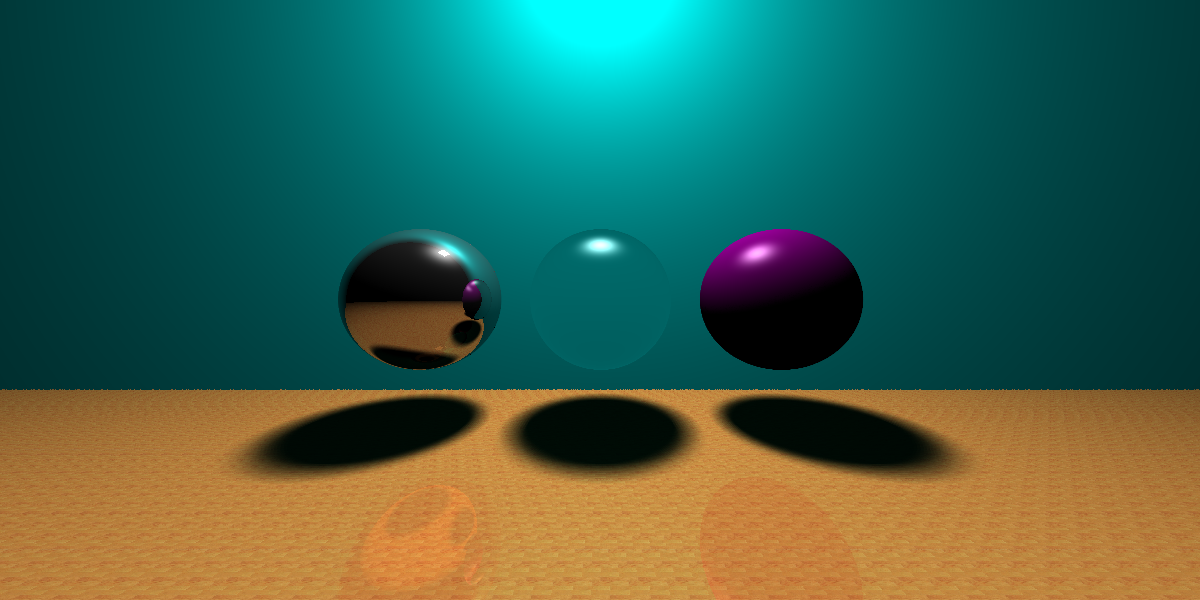
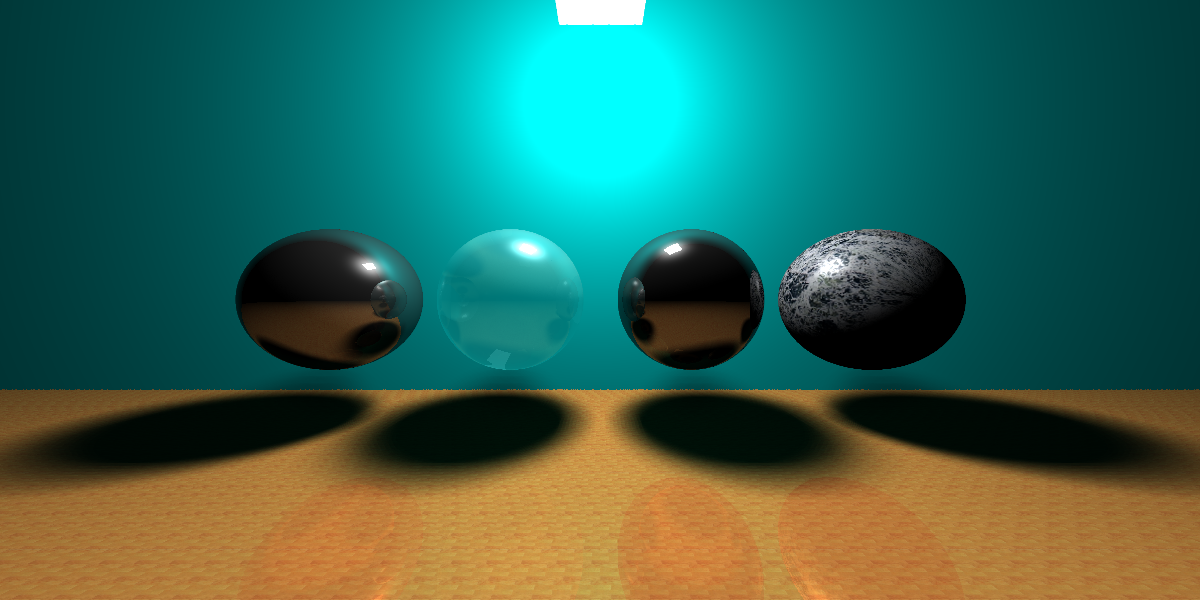
texture optimilized

diff --git a/proj1/proj1/objects.cpp b/proj1/proj1/objects.cpp
@@ -21,27 +21,42 @@ void PicTexture::loadPic() {
 	cv::waitKey(0);
 }
 
-Color PicTexture::getColor(float x,float y, bool sphere) {
-	if (sphere) {
+
+
+Color PicTexture::getColor(float x, float y, bool isSphere) {
+	if (isSphere) {
 		x *= pic.rows;
 		y *= pic.cols;
 	}
+	int u1 = ((int)x) % pic.rows;
+	int v1 = ((int)y) % pic.cols;
+	while (u1 < 0) u1 += pic.rows;
+	while (v1 < 0) v1 += pic.cols;
+	int u2 = (u1 + 1) %  pic.rows;
+	int v2 = (v1 + 1) % pic.cols;
 
-	int xx = int(x)%pic.rows;
-	int yy = int(y)%pic.cols;
-	while (xx < 0) xx += pic.rows;
-	while (yy < 0) yy += pic.cols;
-	float b = pic.at<cv::Vec3b>(xx, yy)[0]/(float)255;
-	float g = pic.at<cv::Vec3b>(xx, yy)[1]/ (float)255;
-	float r = pic.at<cv::Vec3b>(xx, yy)[2]/ (float)255;
-	return Color(r,g,b);
+	float fracu = x - floorf(x);
+	float fracv = y - floorf(y);
+
+	float w1 = (1 - fracu) * (1 - fracv);
+	float w2 = fracu * (1 - fracv);
+	float w3 = (1 - fracu) * fracv;
+	float w4 = fracu * fracv;
+
+	Color c1 = Color(pic.at<cv::Vec3b>(u1, v1)[2], pic.at<cv::Vec3b>(u1, v1)[1], pic.at<cv::Vec3b>(u1, v1)[0]) / 255.0f;
+	Color c2 = Color(pic.at<cv::Vec3b>(u2, v1)[2], pic.at<cv::Vec3b>(u2, v1)[1], pic.at<cv::Vec3b>(u2, v1)[0]) / 255.0f;
+	Color c3 = Color(pic.at<cv::Vec3b>(u1, v2)[2], pic.at<cv::Vec3b>(u1, v2)[1], pic.at<cv::Vec3b>(u1, v2)[0]) / 255.0f;
+	Color c4 = Color(pic.at<cv::Vec3b>(u2, v2)[2], pic.at<cv::Vec3b>(u2, v2)[1], pic.at<cv::Vec3b>(u2, v2)[0]) / 255.0f;
+
+	Color c = c1 * w1 + c2 * w2 + c3 * w3 + c4 * w4;
+	return c;
 }
 
 /****************************************************/
 /***************    ColorTexture   ******************/
 /*****************************************************/
 
-Color ColorTexture::getColor(float x, float y, bool sphere) {
+Color ColorTexture::getColor(float x, float y,bool isSphere) {
 	return textureColor; 
 }
 
@@ -101,16 +116,23 @@ Sphere::Sphere(Meterial* m, Texture* t, Vector3 _P, float _r) :P(_P), r(_r) {
 	type = SPHERE;
 	objMeterial = m;
 	objTexture = t;
+	vn = Vector3(0, 1, 0);
+	ve = Vector3(1, 0, 0);
+	vc = Vector3::cross(vn,ve);
 }
 
 Color Sphere::getColor(Vector3 &pos) {
 	if (objTexture->getType() == Texture::PURE) {
 		return objTexture->getColor(0, 0,true);
 	} else  {
-		Vector3 tmp = (pos - P) *(1 / r);
-		float x = asin(tmp.getZ()) + PI / float(2);
-		float y = atan2(tmp.getX(), tmp.getY());
-		return objTexture->getColor(x, y,true);
+		Vector3 I = pos - P;
+		I.normalize();
+		float a = acos(-Vector3::dot(I, ve));
+		float b = acos(std::min(std::max(Vector3::dot(I, vc) / sin(a), -1.0f), 1.0f));
+		float u = a / PI;
+		float v = b / 2.0f / PI;
+		if (Vector3::dot(vc, ve) < 0) v = 1 - v;
+		return objTexture->getColor(u, v,true);
 	}
 }
 

diff --git a/proj1/proj1/main.cpp b/proj1/proj1/main.cpp
@@ -33,21 +33,26 @@ int main(void){
 	//b->buildCamera(Vector3(600 * SIZE, 500 * SIZE, 400 * SIZE), Vector3(400 * SIZE, 200 * SIZE, 100 * SIZE), Vector3(0, 0,1), Vector3(0, 1, 0),600 * SIZE,600 * SIZE);
 	//b->buildScene(o, 3, SIZE);
 
-	Meterial* m1 = s.getMeterial(0.8f, 0, 0.2f, 0.6);
+	Meterial* m1 = s.getMeterial(0.5f, 0, 0.2f, 0.6);
 	ColorTexture* t1 = s.getColorTexture(Color((float)192 / (float)255, (float)192 / (float)255, (float)192 / (float)255));
 	o[1] = s.getSphere(m1, t1, Vector3(150 * SIZE, 100 * SIZE, 150 * SIZE), 80 * SIZE);
 
-	Meterial* m2 = s.getMeterial(0.0f, 1.33f, 0.0f, 0.8f);
-	ColorTexture* t2 = s.getColorTexture(Color((float)0 / (float)255, (float)0 / (float)255, (float)0 / (float)255));
+	Meterial* m2 = s.getMeterial(0.2f, 1.33f, 0.5f, 0.8f);
+	ColorTexture* t2 = s.getColorTexture(Color((float)133 / (float)255, (float)133 / (float)255, (float)133 / (float)255));
 	o[0] = s.getSphere(m2, t2, Vector3(150 * SIZE, 300 * SIZE, 150 * SIZE), 80 * SIZE);
 
-	Meterial* m3 = s.getMeterial(0.0f, 0, 1.0f, 0.6);
-	ColorTexture* t3 = s.getColorTexture(Color((float)128 / (float)255, (float)0 / (float)255, (float)128 / (float)255));
+	Meterial* m3 = s.getMeterial(0.5f, 0, 0.2f, 0.6);
+	//m3->diff_reflect = 0.2f;
+	ColorTexture* t3 = s.getColorTexture(Color((float)192 / (float)255, (float)192 / (float)255, (float)192 / (float)255));
 	o[2] = s.getSphere(m3, t3, Vector3(150 * SIZE, 500 * SIZE, 150 * SIZE), 80 * SIZE);
 
+	Meterial* m4 = s.getMeterial(0.0f, 0, 0.8f, 0.6);
+	PicTexture* t4 = s.getPicTexture("marble.png");
+	o[3] = s.getSphere(m4, t4, Vector3(150 * SIZE, 700 * SIZE, 150 * SIZE), 80 * SIZE);
+
 	Builder* b = new Builder(SIZE);
-	b->buildCamera(Vector3(500 * SIZE, 300 * SIZE, 150 * SIZE), Vector3(400 * SIZE, 100 * SIZE, 50 * SIZE), Vector3(0, 0, 1), Vector3(0, 1, 0), 400 * SIZE, 200 * SIZE);
-	b->buildScene2(o, 3);
+	b->buildCamera(Vector3(500 * SIZE, 400 * SIZE, 150 * SIZE), Vector3(400 * SIZE, 200 * SIZE, 50 * SIZE), Vector3(0, 0, 1), Vector3(0, 1, 0), 400 * SIZE, 200 * SIZE);
+	b->buildScene2(o, 4);
 
 
 	b->rayTracer_begin();

diff --git a/proj1/proj1/Raytracer.h b/proj1/proj1/Raytracer.h
@@ -4,6 +4,7 @@
 #include "camera.h"
 #include <omp.h>
 #include <time.h>
+#include<random>
 
 class RayTracer {
 private:
